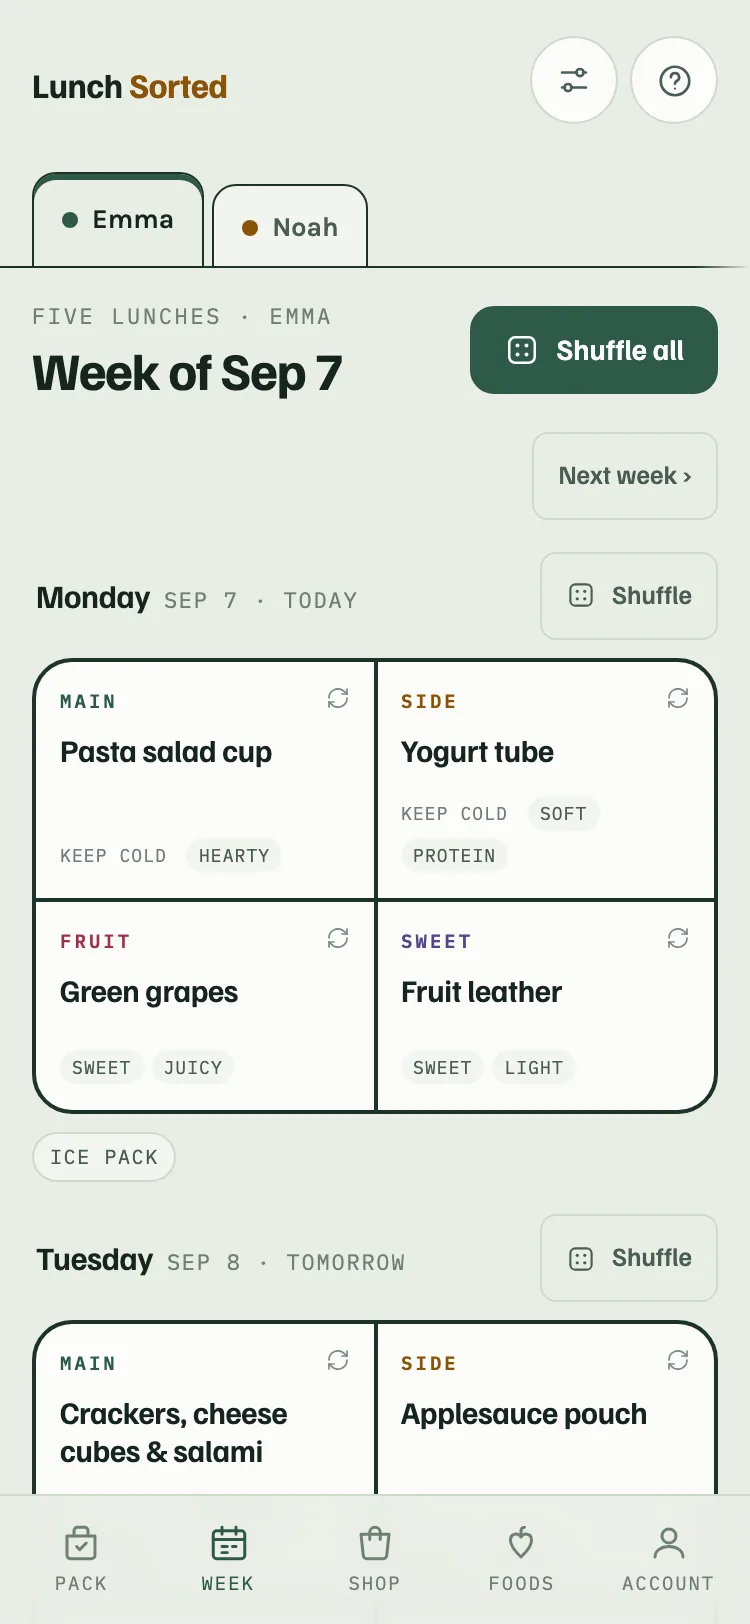
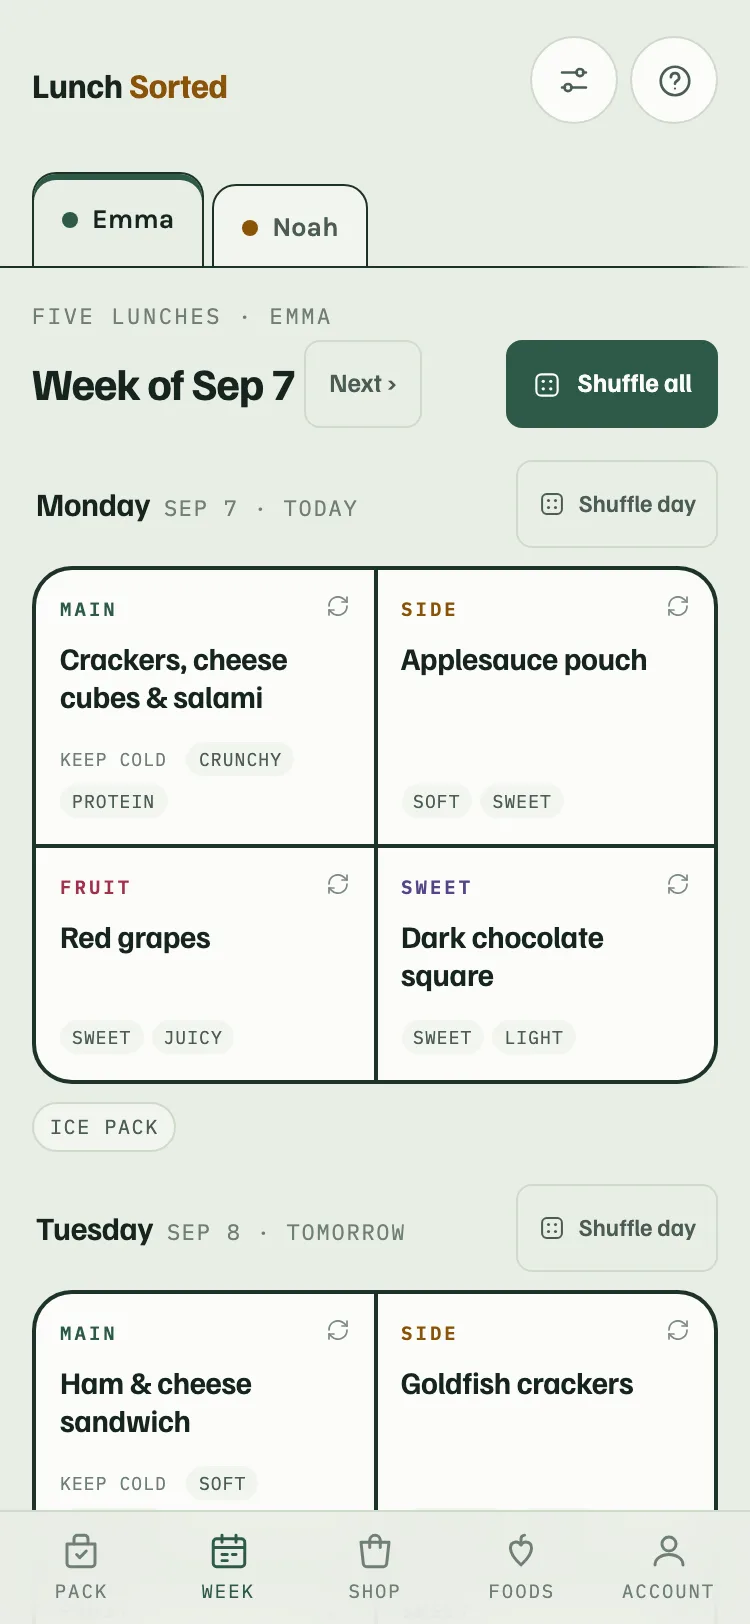
What the five reviews found on the week header, and Shuffle day
The reviews found the whole-week draw had lost its dice while a day's
draw kept one, 16px below it and right-aligned to the same pixel — the
icon pointed at the wrong button and a mis-tap redrew the week. The two
draws are now a named pair: Shuffle all, and Shuffle day a size smaller
beside each date. The empty week says "Shuffle all draws the week."

The header title drops to 22px on this row alone, which buys the dice
back and stops the row wrapping on a 360px phone — it wrapped there in
March and May only, which no parent could have explained.

Also from the reviews: the arrow carries an aria-label, so it is no
longer announced as "Next" and "This"; a helper, who has no draw button,
gets the arrow right-aligned again; README and the help page stop
describing a button that moved; and the week-header checks now pin the
labels and the shared line rather than passing against the old layout.

The marketing and email screenshots are reshot. The day-one email now
cuts below the first day's card as measured, not at a fixed height the
shorter header had turned into a sliced row.

diff --git a/public/app/index.html b/public/app/index.html
@@ -91,9 +91,10 @@ h2.view-title{font-family:var(--f-display);font-size:26px;font-weight:700;line-h
 .stack{display:flex;flex-direction:column;gap:16px}
 .row{display:flex;align-items:center;gap:10px}
 .spread{display:flex;align-items:center;justify-content:space-between;gap:12px}
-.titlerow{display:flex;align-items:center;gap:6px;flex-wrap:wrap}
-.titlerow .btn{white-space:nowrap;flex:none}
-.titlerow .plan{margin-left:auto}
+.titlerow{display:flex;align-items:center;column-gap:4px;row-gap:10px;flex-wrap:wrap}
+@media (max-width:519px){.titlerow h2.view-title{font-size:22px}}
+.titlerow .btn{flex:none}
+.titlerow .btn:last-child{margin-left:auto}
 .muted{color:var(--ink-2)}
 .hint{font-size:13px;color:var(--ink-3)}
 .hint.muted{color:var(--ink-2)}
@@ -166,6 +167,7 @@ a.btn{text-decoration:none}
 .btn.ghost{border-color:var(--line);background:transparent;color:var(--ink-2);font-weight:500}
 .btn.wide{width:100%}
 .btn.sm{min-height:44px;padding:0 12px;font-size:13px;border-radius:var(--r-sm)}
+.dayhead .btn.sm{font-size:12px;padding:0 10px;gap:6px}
 .btn.danger{border-color:var(--line);color:var(--c-fruit);background:transparent}
 
 .card{background:var(--surface);border:1px solid var(--line);border-radius:var(--r-lg);padding:16px}
@@ -2762,21 +2764,21 @@ function viewWeek(){
   var ahead = UI.weekAhead === 1, wk = ahead ? kid.next : kid.week;
   var ws = ahead ? nextStart(kid) : (kid.week ? parseISO(kid.week.start) : anchorWeek(kid));
   var n = wk ? wk.days.length : packDaysSorted(kid).length;
-  var nav = '<button class="btn ghost sm" data-act="week-ahead" data-v="'+(ahead ? 0 : 1)+'">'+(ahead ? '\u2039 This' : 'Next \u203a')+'</button>';
+  var nav = '<button class="btn ghost sm" data-act="week-ahead" data-v="'+(ahead ? 0 : 1)+'" aria-label="'+(ahead ? 'Back to this week' : 'Show next week')+'">'+(ahead ? '\u2039 This' : 'Next \u203a')+'</button>';
   var h = '<div class="stack">'+kidPager()+'<div>'
     + '<p class="view-sub">'+(ahead ? 'Next week' : (NUMWORD[n]||n)+' lunch'+(n===1?'':'es'))+(multi ? ' · '+esc(kid.name) : '')+'</p>'
     + '<div class="titlerow"><h2 class="view-title">Week of '+esc(MON[ws.getMonth()]+' '+ws.getDate())+'</h2>'+nav
-    + (isHelper() ? '' : '<button class="btn primary sm plan" data-act="plan-kid">'+(ahead && !wk ? 'Plan it' : 'Shuffle all')+'</button>')+'</div></div>'
+    + (isHelper() ? '' : '<button class="btn primary sm" data-act="plan-kid">'+svg('dice',15)+(ahead && !wk ? 'Plan it' : 'Shuffle all')+'</button>')+'</div></div>'
     + (ahead ? '' : planBanner());
   if(!wk)
-    return h + '<div class="empty"><p>'+(ahead ? 'Nothing planned for next week yet.' : 'Shuffle draws the week.')+'</p></div></div>';
+    return h + '<div class="empty"><p>'+(ahead ? 'Nothing planned for next week yet.' : 'Shuffle all draws the week.')+'</p></div></div>';
 
   wk.days.forEach(function(day){
     var l = dayLabel(day.d);
     h += '<div class="daycard'+(l.diff<0?' past':'')+'"><div class="dayhead"><div class="dayname">'+esc(l.full)
       +  '<em>'+esc(l.date)+(l.rel?' · '+esc(l.rel):(l.diff<0?' · gone':''))+'</em></div>'
       +  (dayGone(day) || isHelper() ? '' : '<button class="btn ghost sm" data-act="shuffle-day" data-kid="'+esc(kid.id)+'" data-day="'+esc(day.d)+'">'
-      +  svg('dice',15)+'Shuffle</button>')+'</div>'
+      +  svg('dice',14)+'Shuffle day</button>')+'</div>'
       +  tinHTML(kid, day, 'week') + '<div class="spread" style="gap:8px;flex-wrap:wrap">' + chipsHTML(kid, day) + pickButton(kid, day) + '</div></div>';
   });
   return h + '</div>';
@@ -3427,7 +3429,7 @@ function betaBar(){
 }
 function helpSheet(){
   var qa = [
-    ['How does it pick the week?', 'From the foods on your list, matched so each box goes together. Shuffle a day, or tap a compartment to change one thing.'],
+    ['How does it pick the week?', 'From the foods on your list, matched so each box goes together. Shuffle day redraws one day, or tap a compartment to change one thing.'],
     ['Why did a food stop showing up?', 'A school rule or allergen in the lunchbox settings \u2014 the sliders at the top, or Account \u2192 Lunchboxes. Foods it skips are marked on the Foods tab.'],
     ['How do I add a food?', 'On Foods, tap Ideas and tap what they\u2019ll eat \u2014 the idea bank is free for good. Add your own, at the bottom, writes one in your own words and is part of the Household plan.'],
     ['Where does the shopping list come from?', 'Every planned box, as what to buy. Copy it, or send it to Notes.'],

diff --git a/public/help.html b/public/help.html
@@ -36,10 +36,10 @@ strong{color:var(--ink)}
 <p>From the foods on your list, matched so each box goes together: something crunchy against a soft main, protein when the main is light, something tangy to cut the salt. Each compartment shows the words the pairing used. It is not a random draw, and it never rewrites a day that has already gone.</p>
 
 <h2>Can I plan more than one week?</h2>
-<p>Two: this week and the one after. On Week, the arrow beside the date shows the week after, with <strong>Plan it</strong> if nothing is there yet; Shuffle all and a day&rsquo;s Shuffle work on whichever week you are looking at. Shop lists what to buy for it under <strong>Next week</strong>, with the same checks. When this week has gone, the week after becomes this week on its own. Pack, the kid&rsquo;s pick and the after-school review only ever look at this week.</p>
+<p>Two: this week and the one after. On Week, <strong>Next &rsaquo;</strong> beside the date shows the week after, with <strong>Plan it</strong> if nothing is there yet and <strong>&lsaquo; This</strong> to come back; Shuffle all and Shuffle day both work on whichever week you are looking at. Shop lists what to buy for it under <strong>Next week</strong>, with the same checks. When this week has gone, the week after becomes this week on its own. Pack, the kid&rsquo;s pick and the after-school review only ever look at this week.</p>
 
 <h2>How do I change one thing?</h2>
-<p>On Week, tap the compartment (the small swap arrows). Pick another food, or shuffle just that one. Tap a compartment and choose "Don’t change this one" to keep it through the next shuffle. "Shuffle" on a day redraws the day; "Shuffle all" redraws the week. With more than one lunchbox either one first asks whose boxes, and every shuffle offers Undo for a few seconds.</p>
+<p>On Week, tap the compartment (the small swap arrows). Pick another food, or shuffle just that one. Tap a compartment and choose "Don’t change this one" to keep it through the next shuffle. "Shuffle day" redraws that one day; "Shuffle all" redraws the week. With more than one lunchbox either one first asks whose boxes, and every shuffle offers Undo for a few seconds.</p>
 
 <h2>How do I add foods to the list?</h2>
 <p>On <strong>Foods</strong>, tap <strong>Ideas</strong> and tap anything your kid will eat &mdash; that is the built-in idea bank, and it is free for good. <strong>Add your own</strong>, at the bottom of the list, writes a food in your own words with what to buy for it; that one is part of the Household plan. With more than one lunchbox, whatever you add goes into every box unless you tap a name under &ldquo;Add it to&rdquo; to leave one out.</p>

diff --git a/README.md b/README.md
@@ -43,7 +43,7 @@ food list from a 200-item library and produce a planned week immediately. From t
   box. The "Add it to" choice sticks for the rest of the session. A lunchbox filled with "Fill the
   list for me" is planned on its own until the next Plan the week matches it in; the toast after
   Plan the week says how many compartments had to differ.
-- **Plan ahead** — one more week (`kid.next`), reached by the Next week button under the Week header, drawn and
+- **Plan ahead** — one more week (`kid.next`), reached by the Next button beside the week's date, drawn and
   shuffled like this one, listed on Shop under *Next week*, and rolled into `kid.week` the moment this
   week has gone. Pack, the kid's pick and the review read only this week. Merged and normalised like
   the first week.
